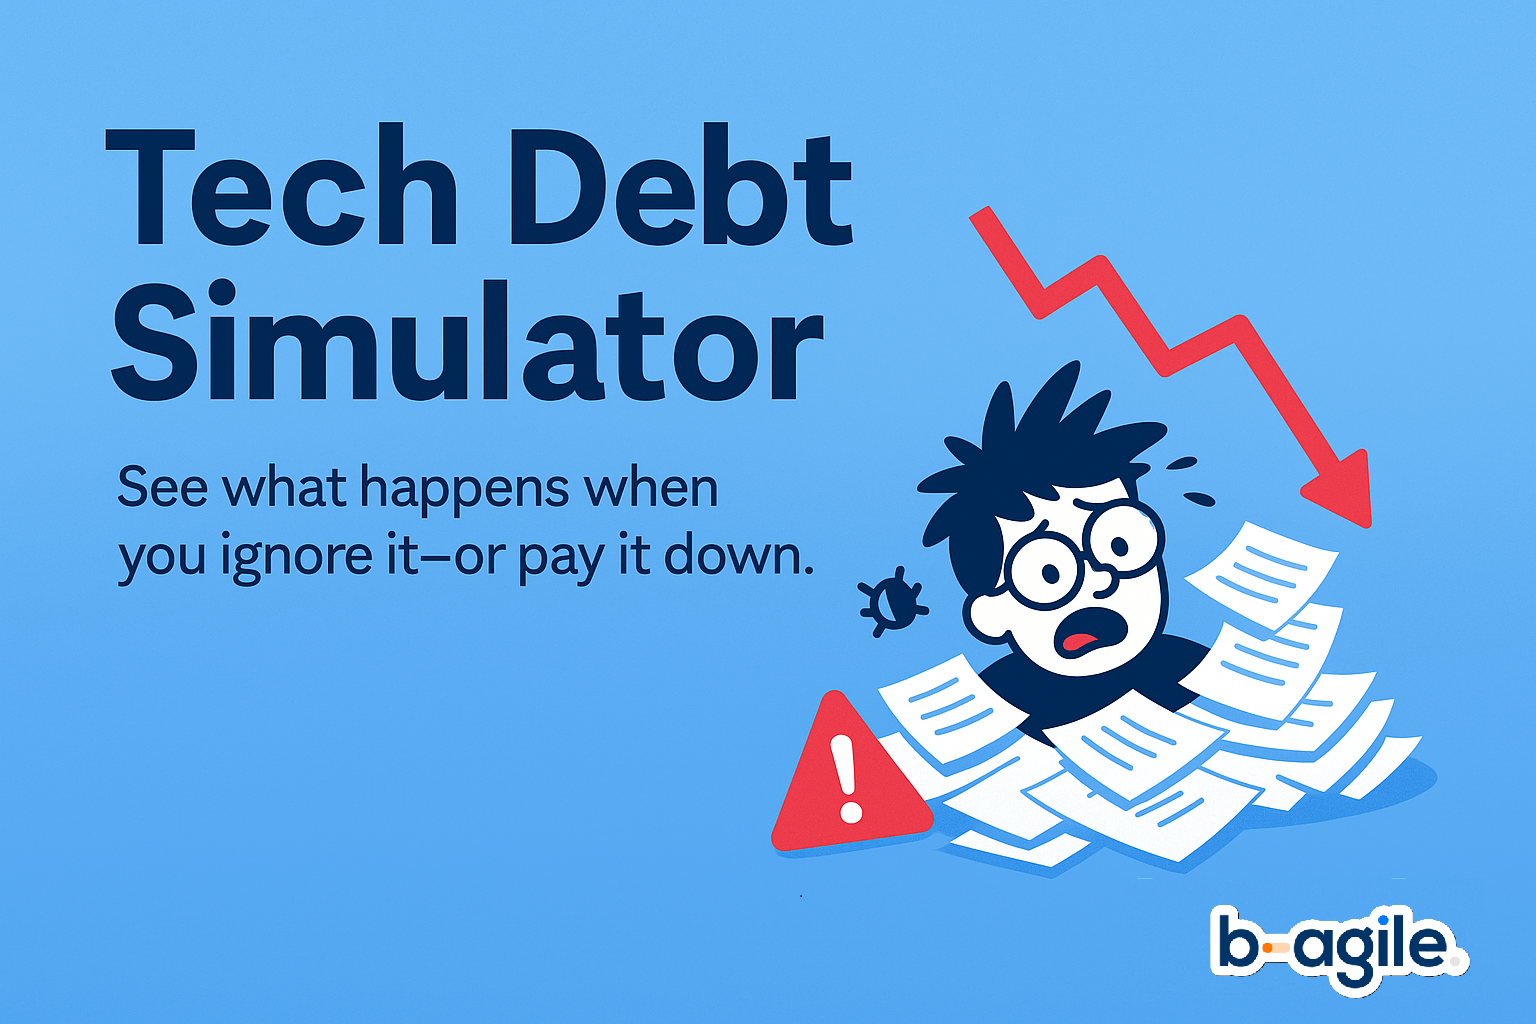
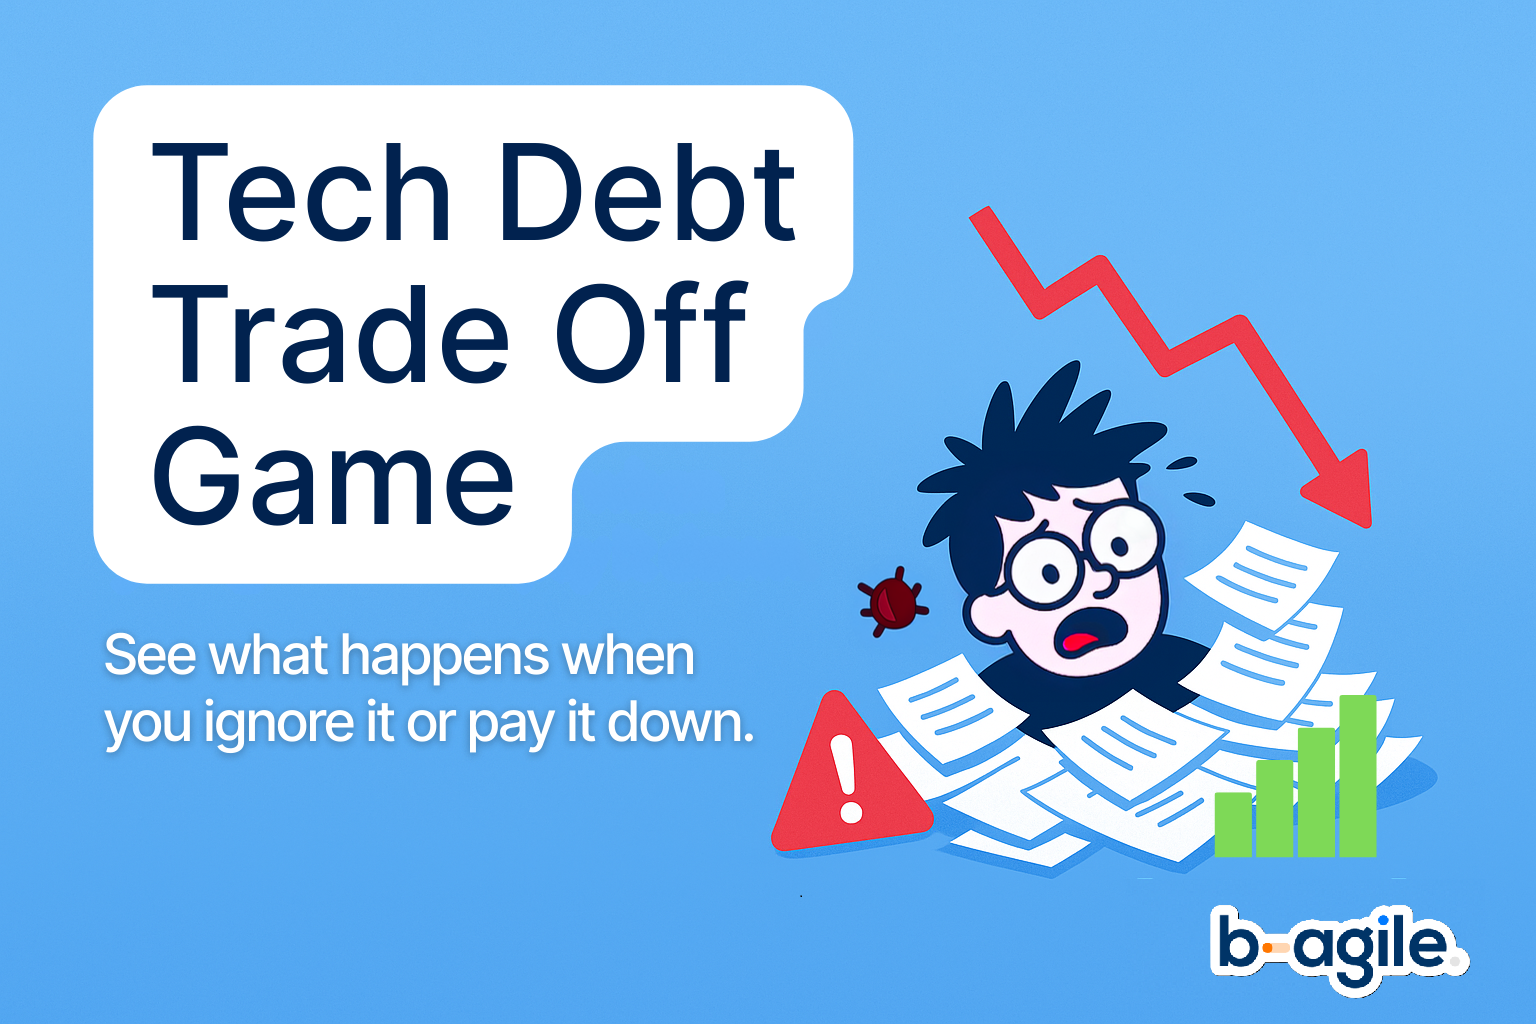
tech debt simulation improvement - minor

diff --git a/src/components/RulesModal.tsx b/src/components/RulesModal.tsx
@@ -14,57 +14,77 @@ export const RulesModal = ({ isOpen, onClose }: RulesModalProps) => {
         <button style={styles.closeButton} onClick={onClose}>×</button>
 
         <div style={{ fontFamily: 'sans-serif', padding: '2rem', maxWidth: 800, margin: '0 auto' }}>
-          <h1 style={{ textAlign: 'center' }}>Tech Debt Simulator</h1>
+          <h1 style={{ textAlign: 'center' }}>Tech Debt Simulation</h1>
           <p style={{ textAlign: 'center', fontSize: '1.2rem', color: '#444' }}>
-            See what happens when you ignore it… or pay it down.
+            See what happens when you ignore it or invest wisely.
+          </p>
+          <p style={{ textAlign: 'center', fontSize: '1rem', color: '#666', marginTop: '0.5rem' }}>
+            A simple tool to explore how tech debt decisions shape delivery outcomes.
           </p>
 
           <h2>🎯 Your Goal</h2>
           <p>
-            You’ve got <strong>10 sprints</strong> to deliver as much value as possible.
-            Easy? Not quite.<br />
-            You’ve inherited a team buried in tech debt and they can’t release working software every sprint.
+            You have <strong>10 sprints</strong> to deliver as much value as possible. Sounds simple.
+          </p>
+          <p>
+            But your team is stuck. They are buried in tech debt, unable to release reliably, and looking busy without results.
+          </p>
+          <p>
+            What will you do next?
+          </p>
+          <ul>
+            <li>How will you help them start delivering?</li>
+            <li>What happens if you invest?</li>
+            <li>What happens if you do nothing?</li>
+          </ul>
+          <p>
+            Every decision is a trade off. What you invest in or ignore will shape how your team delivers.
           </p>
 
           <h2>👨💻 Your Developers</h2>
           <ul>
-            <li>You’ve got 6 devs. Each one starts with a <strong>power level of 5</strong>.</li>
+            <li>You have 6 devs. Each one starts with a <strong>power level of 5</strong>.</li>
             <li>
-              That means when they’re assigned to <strong>Build</strong>, they can generate <strong>1 to 5 value</strong> each sprint.
+              When assigned to <strong>Build</strong>, they generate <strong>1 to 5 value</strong> each sprint.
             </li>
             <li>Double-click an area or drag and drop your devs to assign them.</li>
             <li>
-              Drop them into <strong>Build</strong> to crank out features, or invest in the future by assigning them to <strong>Improvements</strong>!
+              Drop them into <strong>Build</strong> to crank out features, or invest in the future by assigning them to <strong>Improvements</strong>.
             </li>
           </ul>
 
           <h2>⏰ Tech Debt Gets in the Way</h2>
           <ul>
-            <li>You inherited <strong>100% tech debt</strong>. Lucky you.</li>
-            <li>Ignore it, and it gets worse - more bugs, more failed releases.</li>
-            <li>The only way out? Invest in improvements.</li>
+            <li>You inherited <strong>100 percent tech debt</strong>. Lucky you.</li>
+            <li>Ignore it, and it gets worse, with more bugs and failed releases.</li>
+            <li>The only way out is to invest in improvements.</li>
           </ul>
 
           <h2>🧪 Team Improvements</h2>
           <p>Each investment you complete gives your team a permanent upgrade:</p>
           <ul>
-            <li><strong>More dev power</strong> - your devs generate more value each sprint</li>
-            <li><strong>Higher release confidence</strong> - better odds your work actually ships</li>
-            <li><strong>Less tech debt</strong> - fewer bugs, faster progress</li>
+            <li><strong>More dev power</strong>, generating more value each sprint.</li>
+            <li><strong>Higher release confidence</strong>, better odds your work actually ships.</li>
+            <li><strong>Less tech debt</strong>, meaning fewer bugs and faster progress.</li>
           </ul>
 
-          <h2>📋 How the Game Works</h2>
+          <h2>📋 How the Simulation Works</h2>
           <ul>
-            <li>Only devs in Build generate value.</li>
-            <li>Bugs show up more often when tech debt’s high, they eat into your output.</li>
-            <li>Releasing is a dice roll - more confidence means better odds.</li>
-            <li>Value only counts if you release. Fail the release? You lose that sprint’s work.</li>
-            <li>After 10 sprints, the game ends. Check your results. What would you change next time?</li>
+            <li>Only devs in <strong>Build</strong> generate value each sprint.</li>
+            <li><strong>Bugs</strong> are more likely with high tech debt for each developer building.</li>
+            <li><strong>Releases</strong> depend on a roll from 1 to 100:
+              <ul>
+                <li>If the roll is less than or equal to your <strong>Release Confidence</strong>, the release succeeds.</li>
+                <li>Otherwise, nothing is released that sprint.</li>
+              </ul>
+            </li>
+            <li>Only released value counts. Failed release equals lost value.</li>
+            <li>The simulation ends after 10 sprints. Reflect on your results and what you might change next time.</li>
           </ul>
 
-        <p style={{ marginTop: '2rem', fontSize: '1rem', textAlign: 'center' }}>
-          <strong>Deliver now or build a team that delivers forever? You decide.</strong>
-        </p>
+          <p style={{ marginTop: '2rem', fontSize: '1rem', textAlign: 'center' }}>
+            <strong>Deliver now or build a team that delivers sustainably. You decide.</strong>
+          </p>
 
           <div style={{ display: 'flex', justifyContent: 'center', marginTop: '2rem' }}>
             <button

diff --git a/public/index.html b/public/index.html
@@ -7,24 +7,24 @@
     <meta name="theme-color" content="#000000" />
     <meta
       name="description"
-      content="Play the Tech Debt Simulator by Bagile. A simple browser game that shows how ignoring technical debt slows you down—and how good engineering practices speed you up."
+      content="Explore the Tech Debt Simulation by Bagile. A simple tool that helps you experience how technical debt impacts delivery and trade-off decisions."
     />
-    <meta property="og:title" content="Tech Debt Simulator – Bagile" />
-    <meta property="og:description" content="A simple browser game that reveals the impact of tech debt and the value of good practices like CI/CD, test coverage, and clean code." />
+    <meta property="og:title" content="Tech Debt Simulation" />
+    <meta property="og:description" content="Learn how technical debt affects delivery. Experience the trade-offs between short-term delivery and long-term sustainability in this lightweight simulation." />
     <meta property="og:image" content="%PUBLIC_URL%/preview.png" />
-    <meta property="og:url" content="https://www.bagile.co.uk/techdebt-simulator" />
+    <meta property="og:url" content="https://www.bagile.co.uk/techdebt-simulation" />
     <meta name="twitter:card" content="summary_large_image" />
 
-  <!-- Google tag (gtag.js) -->
-  <script async src="https://www.googletagmanager.com/gtag/js?id=G-M5YN5GVJKQ"></script>
-  <script>
-    window.dataLayer = window.dataLayer || [];
-    function gtag(){dataLayer.push(arguments);}
-    gtag('js', new Date());
-    gtag('config', 'G-M5YN5GVJKQ');
-  </script>
+    <!-- Google tag (gtag.js) -->
+    <script async src="https://www.googletagmanager.com/gtag/js?id=G-M5YN5GVJKQ"></script>
+    <script>
+      window.dataLayer = window.dataLayer || [];
+      function gtag(){dataLayer.push(arguments);}
+      gtag('js', new Date());
+      gtag('config', 'G-M5YN5GVJKQ');
+    </script>
 
-    <title>Tech Debt Simulator - Bagile</title>
+    <title>Tech Debt Simulation</title>
   </head>
   <body>
     <noscript>You need to enable JavaScript to run this app.</noscript>

diff --git a/src/styles/GameStats.module.css b/src/styles/GameStats.module.css
@@ -1,13 +1,16 @@
-.teamValues {
+  .teamValues {
     background-color: #036;
     color: white;
-    padding: 1rem;
+    padding: 0.75rem 1rem;
     border-radius: 8px;
     border: 1px solid #dee2e6;
-    display: grid;
-    grid-template-columns: repeat(3, 1fr);
-    gap: 0.5rem;
+    display: flex;
+    justify-content: space-between;
+    align-items: center;
+    font-size: 0.95rem;
+    gap: 1.5rem;
     margin-bottom: 1rem;
+    white-space: nowrap;
   }
   
   .turnValues {

diff --git a/src/components/Header.tsx b/src/components/Header.tsx
@@ -2,7 +2,7 @@ import styles from '../styles/Header.module.css';
 
 const Header = () => (
   <div className={styles.header}>
-    <h1 className={styles.title}>Tech Debt Simulator</h1>
+    <h1 className={styles.title}>Tech Debt Trade Off Game</h1>
     <div className={styles.subtitle}>See what happens when you ignore it or pay it down.</div>
   </div>
 );

diff --git a/src/App.module.css b/src/App.module.css
@@ -98,6 +98,17 @@
     grid-template-rows: 1fr 1fr;
     gap: 1rem;
   }
+
+  .improvementText {
+    min-height: 3.6em; /* roughly 3 lines */
+    text-align: center;
+    font-size: 0.85rem;
+    color: #555;
+    line-height: 1.2;
+    margin-top: 0.5rem;
+    white-space: normal;
+    overflow: hidden;
+  }
   
   .logoArea {
     display: flex;

diff --git a/src/styles/Layout.module.css b/src/styles/Layout.module.css
@@ -38,17 +38,6 @@
     min-height: 400px;
   }
   
-  .leftColumn,
-  .rightColumn {
-    flex: 0 0 50%;
-  }
-  
-  .rightColumn {
-    display: grid;
-    grid-template-columns: 1fr 1fr;
-    grid-template-rows: 1fr 1fr;
-    gap: 1rem;
-  }
   
   .devPool {
     margin-bottom: 2rem;

diff --git a/src/index.tsx b/src/index.tsx
@@ -11,7 +11,7 @@ const root = ReactDOM.createRoot(
 
 root.render(
   <React.StrictMode>
-    <BrowserRouter basename="/techdebt-simulator">
+    <BrowserRouter basename="/techdebt-simulation">
       <App />
     </BrowserRouter>
   </React.StrictMode>
